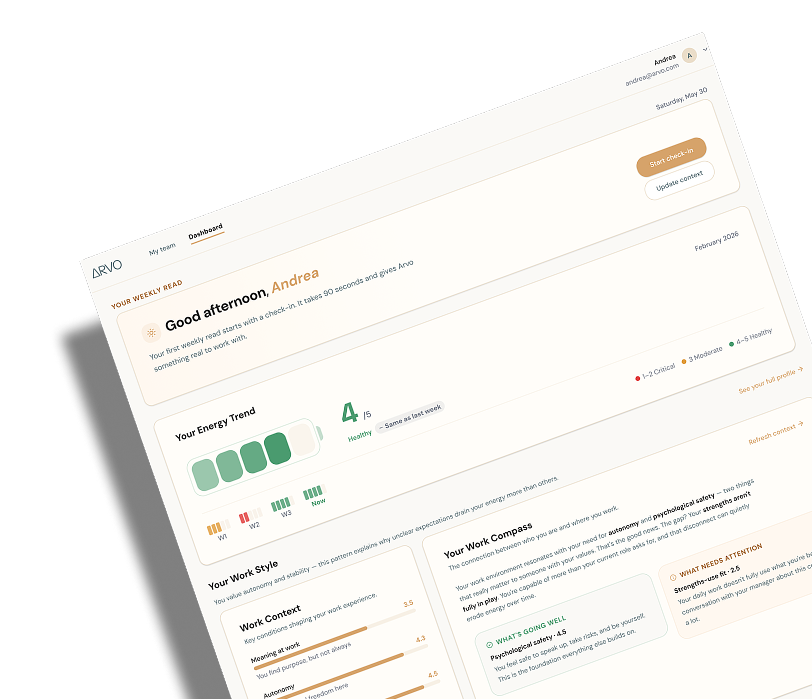
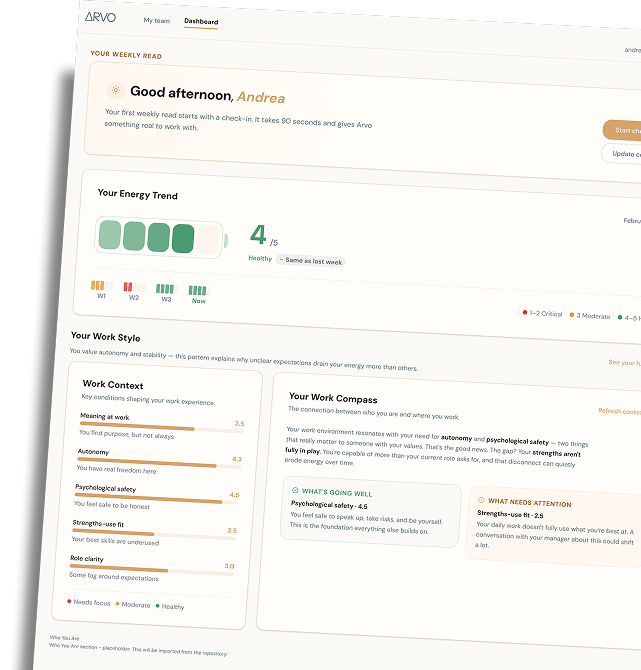
update ARVO

diff --git a/case-studies/arvo.html b/case-studies/arvo.html
@@ -383,11 +383,11 @@
     #cs-seven .inner { display: flex; gap: 40px; align-items: flex-start; }
     .cs-seven-left { flex: 0 0 calc(50% - 20px); position: sticky; top: 100px; display: flex; flex-direction: column; gap: 20px; }
     .cs-seven-intro { display: flex; flex-direction: column; gap: 16px; }
-    .cs-seven-stack { flex: 1; display: flex; flex-direction: column; gap: 10px; }
+    .cs-seven-stack { flex: 1 0 0; align-self: stretch; display: flex; flex-direction: column; gap: 10px; padding: 32px 0; align-items: center; }
     .cs-seven-card {
       position: relative; background: #f4f4eb; border-radius: 10px; overflow: hidden;
       display: flex; flex-direction: column; gap: 10px;
-      padding: 16px; height: 400px; flex-shrink: 0;
+      padding: 16px; height: 400px; flex-shrink: 0; width: 572px;
     }
     .cs-seven-card--dark { background: #31332a; }
     .cs-seven-card__badge {
@@ -410,116 +410,72 @@
     .cs-seven-card__stat { font-family: var(--font-body); font-size: 13px; line-height: 15px; color: var(--ink-dark); }
     .cs-seven-card--dark .cs-seven-card__stat { color: rgba(244,244,235,0.9); }
 
-    /* Mobile-first: simple image fill on right side */
-    .cs-seven-card__img-wrap {
-      position: absolute; top: 0; left: 155px; right: 0; bottom: 0; overflow: hidden;
+    /* Mobile-first: image fills right side of card body */
+    .cs-seven-card__body > img {
+      position: absolute; top: 0; left: 155px; right: 0; bottom: 0;
+      object-fit: cover; object-position: top left; display: block;
     }
-    .cs-seven-card__img-wrap img { width: 100%; height: 100%; object-fit: cover; object-position: top left; display: block; }
 
-    /* Desktop: pixel-accurate per-card image placement from Figma */
+    /* Desktop: Figma-accurate flex layout per card */
     @media (min-width: 768px) {
-      /* Card 1 — Manager's Paradox (cream) */
-      /* Confirmed: outer_container at card(16,16); image body-rel (91,60); rotation+shadow on wrapper */
+      .cs-seven-card__body {
+        position: static;
+        display: flex; flex-direction: row; gap: 10px;
+        align-items: flex-start; overflow: visible;
+      }
+      .cs-seven-card__body > img {
+        position: static;
+        width: 100%; height: auto; flex-shrink: 1; min-width: 0;
+        object-fit: initial; object-position: initial; display: block;
+      }
+
+      /* Card 1 — Manager's Paradox */
+      .cs-seven-card:nth-child(1) .cs-seven-card__body { min-height: 1px; position: relative; }
+      .cs-seven-card:nth-child(1) .cs-seven-card__text {
+        display: flex; flex: 1 0 0; align-items: flex-start; min-width: 1px; position: relative; width: auto;
+      }
+      .cs-seven-card:nth-child(1) .cs-seven-card__img-col {
+        display: flex; flex-direction: column; align-items: flex-start;
+        flex: 1 0 0; height: 100%; min-width: 1px; position: relative;
+        isolation: isolate; overflow: visible;
+      }
       .cs-seven-card:nth-child(1) .cs-seven-card__img-wrap {
-        left: 91px; top: 60px; right: auto; bottom: auto;
-        width: 358px; height: 388px; overflow: visible;
-        transform: rotate(-23.14deg);
-        transform-origin: center;
-        box-shadow: -9.132px 37.669px 6.849px rgba(0,0,0,0.5);
-      }
-      .cs-seven-card:nth-child(1) .cs-seven-card__img-wrap img {
-        width: 100%; height: 100%; object-fit: cover; display: block;
+        position: absolute; left: -24px; top: -15.86px;
+        width: 341px; height: 369.501px;
+        background: url('../Asset/arvo-problem-01.png') center / cover no-repeat;
+        filter: drop-shadow(-8.70432px 35.9053px 6.52824px rgba(0,0,0,0.5));
       }
 
-      /* Card 2 — Cognitive Overload (cream) */
-      /* Confirmed: card-abs (71,161) → body-rel (55,80); wide dashboard skewed */
-      .cs-seven-card:nth-child(2) .cs-seven-card__img-wrap {
-        left: 55px; top: 80px; right: auto; bottom: auto;
-        width: 849px; height: 239px; overflow: visible;
-        display: flex; align-items: center; justify-content: center;
-      }
-      .cs-seven-card:nth-child(2) .cs-seven-card__img-wrap img {
-        width: 822px; height: auto; object-fit: unset; flex-shrink: 0;
-        transform: rotate(3deg) skewX(-5deg);
-        box-shadow: -37px 28px 14px rgba(0,0,0,0.5);
-      }
+      /* Card 2 — Cognitive Overload */
+      .cs-seven-card:nth-child(2) .cs-seven-card__body { flex-direction: column; }
+      .cs-seven-card:nth-child(2) .cs-seven-card__text { width: auto; flex-shrink: 0; }
+      .cs-seven-card:nth-child(2) .cs-seven-card__body > img { width: 100%; height: 239px; object-fit: cover; }
 
-      /* Card 3 — Energisers & Drainers (cream) */
-      /* Confirmed: flex-row body; equal cols (270px each); display:contents outer at (-60,-15); */
-      /* inner wrapper at (-4.63,-15) rel to outer → net body-rel (205,-30) */
-      .cs-seven-card:nth-child(3) .cs-seven-card__text { max-width: 228px; }
-      .cs-seven-card:nth-child(3) .cs-seven-card__img-wrap {
-        left: 205px; top: -30px; right: auto; bottom: auto;
-        width: 348px; height: 427px; overflow: visible;
-        display: flex; align-items: center; justify-content: center;
-      }
-      .cs-seven-card:nth-child(3) .cs-seven-card__img-wrap img {
-        width: 310px; height: auto; object-fit: unset; flex-shrink: 0;
-        transform: rotate(5deg) skewX(-10deg) scaleY(0.98);
-      }
+      /* Card 3 — Energisers & Drainers */
+      .cs-seven-card:nth-child(3) .cs-seven-card__body { align-items: flex-end; }
+      .cs-seven-card:nth-child(3) .cs-seven-card__text { width: 210px; flex-shrink: 0; height: 100%; }
+      .cs-seven-card:nth-child(3) .cs-seven-card__body > img { flex: 1 1 0; height: 100%; object-fit: cover; }
 
-      /* Card 4 — AI Jargons & Mgt 101 (dark) */
-      /* Confirmed: text w=172px, gap=20px → body-rel (192,0); size 460.765×323px; no rotation */
-      .cs-seven-card:nth-child(4) .cs-seven-card__text { max-width: 172px; }
-      .cs-seven-card:nth-child(4) .cs-seven-card__img-wrap {
-        left: 192px; top: 0px; right: auto; bottom: auto;
-        width: 461px; height: 323px; overflow: visible;
-      }
-      .cs-seven-card:nth-child(4) .cs-seven-card__img-wrap img {
-        width: 461px; height: 323px; object-fit: cover; flex-shrink: 0;
-        box-shadow: -17.59px 26.386px 4.797px rgba(0,0,0,0.25);
-      }
+      /* Card 4 — AI Jargons */
+      .cs-seven-card:nth-child(4) .cs-seven-card__body { align-items: center; gap: 20px; }
+      .cs-seven-card:nth-child(4) .cs-seven-card__text { width: 172px; flex-shrink: 0; height: 100%; }
+      .cs-seven-card:nth-child(4) .cs-seven-card__body > img { flex: 1 1 0; height: 100%; object-fit: cover; }
 
-      /* Card 5 — Honesty Gap (dark) */
-      /* Confirmed: text w=210px; centering container 543.965×344.415px; inner 499.923px rotate3+skewX-5 */
-      .cs-seven-card:nth-child(5) .cs-seven-card__text { max-width: 210px; }
-      .cs-seven-card:nth-child(5) .cs-seven-card__img-wrap {
-        left: 210px; top: 0px; right: auto; bottom: auto;
-        width: 544px; height: 344px; overflow: visible;
-        display: flex; align-items: center; justify-content: center;
-      }
-      .cs-seven-card:nth-child(5) .cs-seven-card__img-wrap img {
-        width: 500px; height: auto; object-fit: unset; flex-shrink: 0;
-        transform: rotate(3deg) skewX(-5deg);
-        box-shadow: -4.642px 3.571px 1.428px rgba(0,0,0,0.25);
-      }
+      /* Card 5 — Honesty Gap */
+      .cs-seven-card:nth-child(5) .cs-seven-card__text { width: 185px; flex-shrink: 0; height: 100%; }
+      .cs-seven-card:nth-child(5) .cs-seven-card__body > img { flex: 1 1 0; height: 100%; object-fit: cover; }
 
-      /* Card 6 — Structural Resignation (dark) */
-      /* Confirmed: text w=205px; centering container 578.732×405.32px; inner 526.361px rotate3+skewX-5 */
-      .cs-seven-card:nth-child(6) .cs-seven-card__text { max-width: 205px; }
-      .cs-seven-card:nth-child(6) .cs-seven-card__img-wrap {
-        left: 205px; top: 0px; right: auto; bottom: auto;
-        width: 579px; height: 405px; overflow: visible;
-        display: flex; align-items: center; justify-content: center;
-      }
-      .cs-seven-card:nth-child(6) .cs-seven-card__img-wrap img {
-        width: 526px; height: auto; object-fit: unset; flex-shrink: 0;
-        transform: rotate(3deg) skewX(-5deg);
-      }
+      /* Card 6 — Structural Resignation */
+      .cs-seven-card:nth-child(6) .cs-seven-card__text { width: 179px; flex-shrink: 0; height: 100%; }
+      .cs-seven-card:nth-child(6) .cs-seven-card__body > img { flex: 1 1 0; height: 100%; object-fit: cover; }
 
-      /* Card 7 — Homework Trap (dark) */
-      /* Confirmed: text w=230px; centering container 396×381.91px; rotate5+skewX-10+scaleY0.98 */
-      .cs-seven-card:nth-child(7) .cs-seven-card__text { max-width: 230px; }
-      .cs-seven-card:nth-child(7) .cs-seven-card__img-wrap {
-        left: 230px; top: 0px; right: auto; bottom: auto;
-        width: 396px; height: 382px; overflow: visible;
-        display: flex; align-items: center; justify-content: center;
-      }
-      .cs-seven-card:nth-child(7) .cs-seven-card__img-wrap img {
-        width: 360px; height: auto; object-fit: unset; flex-shrink: 0;
-        transform: rotate(5deg) skewX(-10deg) scaleY(0.98);
-      }
+      /* Card 7 — Homework Trap */
+      .cs-seven-card:nth-child(7) .cs-seven-card__text { width: 155px; flex-shrink: 0; height: 100%; }
+      .cs-seven-card:nth-child(7) .cs-seven-card__body > img { flex: 1 1 0; height: 100%; object-fit: cover; }
 
-      /* Card 8 — Accessibility (dark) */
-      /* Estimated from screenshot: two overlapping flat ARVO panels, no rotation */
-      .cs-seven-card:nth-child(8) .cs-seven-card__text { max-width: 230px; }
-      .cs-seven-card:nth-child(8) .cs-seven-card__img-wrap {
-        left: 240px; top: -50px; right: auto; bottom: auto;
-        width: 360px; height: 450px; overflow: visible;
-      }
-      .cs-seven-card:nth-child(8) .cs-seven-card__img-wrap img {
-        width: 360px; height: auto; object-fit: unset; flex-shrink: 0;
-      }
+      /* Card 8 — Accessibility */
+      .cs-seven-card:nth-child(8) .cs-seven-card__text { width: 230px; flex-shrink: 0; height: 100%; }
+      .cs-seven-card:nth-child(8) .cs-seven-card__body > img { flex: 1 1 0; height: 100%; object-fit: cover; }
     }
 
     /* ── Before / After ── */
@@ -1029,8 +985,8 @@
               <p class="cs-seven-card__desc">no time to read a dense dashboard so we designed singular page architecture, clear role separation and no ambiguity on context of each page.</p>
               <p class="cs-seven-card__stat">11 of 13 managers approved.</p>
             </div>
-            <div class="cs-seven-card__img-wrap">
-              <img src="../Asset/arvo-problem-01.png" alt="Manager's Paradox solution">
+            <div class="cs-seven-card__img-col">
+              <div class="cs-seven-card__img-wrap"></div>
             </div>
           </div>
         </div>
@@ -1043,9 +999,7 @@
               <p class="cs-seven-card__desc">overwhelming wall of text and every signal looked equally urgent so we added clear signals for managers to easily scan for issues and prioritise key tasks faster.</p>
               <p class="cs-seven-card__stat">12 of 13 managers approved.</p>
             </div>
-            <div class="cs-seven-card__img-wrap">
-              <img src="../Asset/arvo-problem-02.png" alt="Cognitive Overload solution">
-            </div>
+            <img src="../Asset/arvo-problem-02.png" alt="Cognitive Overload solution">
           </div>
         </div>
 
@@ -1056,9 +1010,7 @@
             <div class="cs-seven-card__text">
               <p class="cs-seven-card__desc">managers consistently rated this as the most valuable feature in the product. we preserved it and built around it rather than rebuild it from scratch.</p>
             </div>
-            <div class="cs-seven-card__img-wrap">
-              <img src="../Asset/arvo-problem-03.png" alt="Energisers and Drainers">
-            </div>
+            <img src="../Asset/arvo-problem-03.png" alt="Energisers and Drainers">
           </div>
         </div>
 
@@ -1070,9 +1022,7 @@
               <p class="cs-seven-card__desc">The plain-English translation layer is just a temporary workaround; the AI model itself needs to be retrained with a proper language taxonomy.</p>
               <p class="cs-seven-card__desc">Handed over the taxonomy documentation, but advised our Client to test it further to ensure the simple phrasing fits each specific industry.</p>
             </div>
-            <div class="cs-seven-card__img-wrap">
-              <img src="../Asset/arvo-problem-04.png" alt="AI Jargons">
-            </div>
+            <img src="../Asset/arvo-problem-04.png" alt="AI Jargons">
           </div>
         </div>
 
@@ -1084,9 +1034,7 @@
               <p class="cs-seven-card__desc">Managers fear dishonest feedback because small team sizes destroy anonymity, and design alone can't fix fundamental privacy flaws.</p>
               <p class="cs-seven-card__desc">Advised the client to set a minimum team size threshold for reporting to strictly protect employee identity.</p>
             </div>
-            <div class="cs-seven-card__img-wrap">
-              <img src="../Asset/arvo-problem-05.png" alt="Honesty Gap">
-            </div>
+            <img src="../Asset/arvo-problem-05.png" alt="Honesty Gap">
           </div>
         </div>
 
@@ -1097,9 +1045,7 @@
             <div class="cs-seven-card__text">
               <p class="cs-seven-card__desc">Problems raised like salary increment and more leaves are a culture issue, not a tool issue. Managers don't have the ability to influence such issues.</p>
             </div>
-            <div class="cs-seven-card__img-wrap">
-              <img src="../Asset/arvo-problem-06.png" alt="Structural Resignation">
-            </div>
+            <img src="../Asset/arvo-problem-06.png" alt="Structural Resignation">
           </div>
         </div>
 
@@ -1111,9 +1057,7 @@
               <p class="cs-seven-card__desc">Weekly surveys feel like administrative busywork, while action checklists add friction by forcing managers off the platform to complete tasks.</p>
               <p class="cs-seven-card__desc">We advised shifting to a bi-weekly or monthly cadence and building a native scheduling tool to streamline workflows.</p>
             </div>
-            <div class="cs-seven-card__img-wrap">
-              <img src="../Asset/arvo-problem-07.png" alt="Homework Trap">
-            </div>
+            <img src="../Asset/arvo-problem-07.png" alt="Homework Trap">
           </div>
         </div>
 
@@ -1124,9 +1068,7 @@
             <div class="cs-seven-card__text">
               <p class="cs-seven-card__desc">Managers reported that the platform's colors were too light, causing severe eye strain. We fixed the colour contrast in the final iteration to improve readability.</p>
             </div>
-            <div class="cs-seven-card__img-wrap">
-              <img src="../Asset/arvo-problem-08.png" alt="Accessibility">
-            </div>
+            <img src="../Asset/arvo-problem-08.png" alt="Accessibility">
           </div>
         </div>
 
